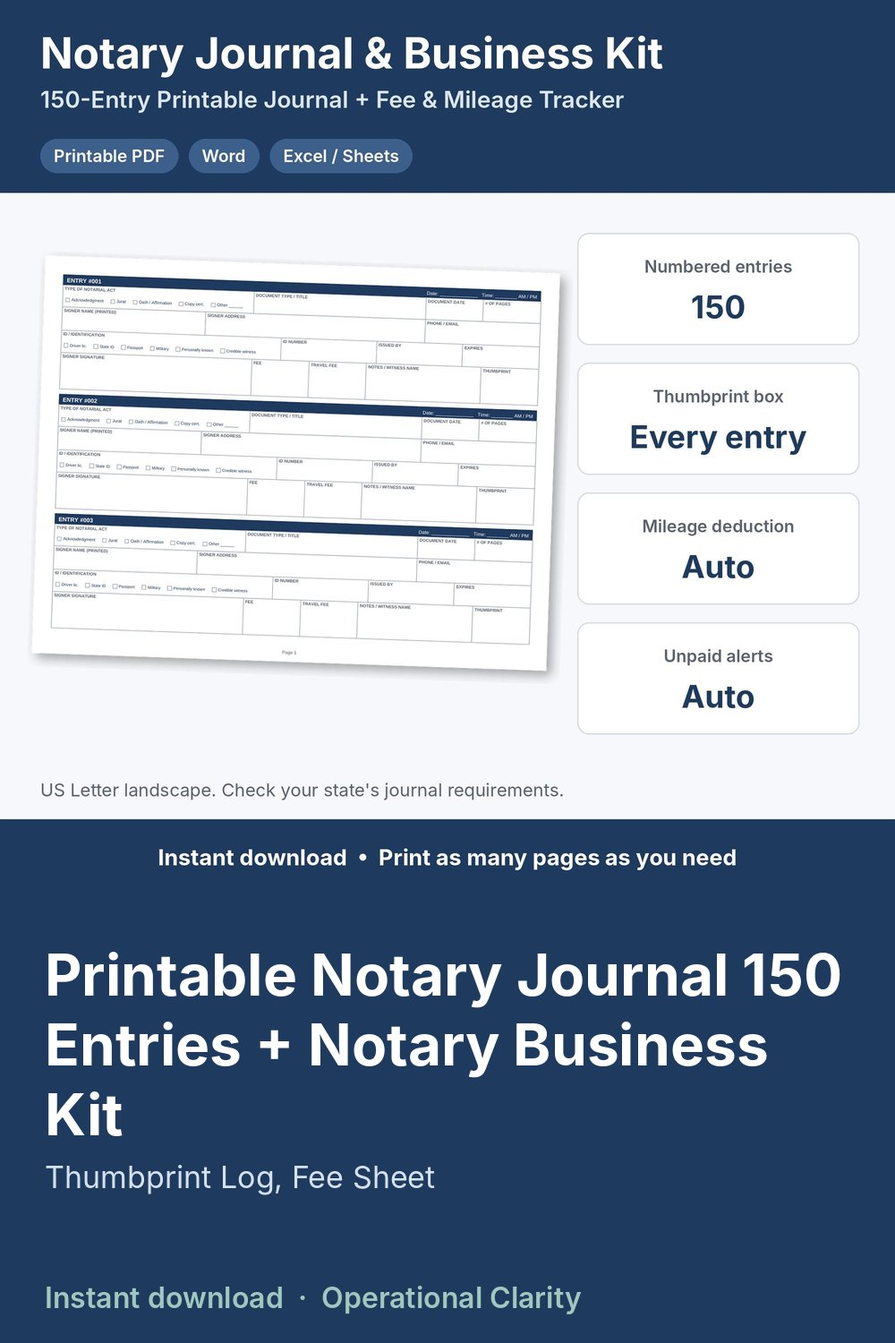
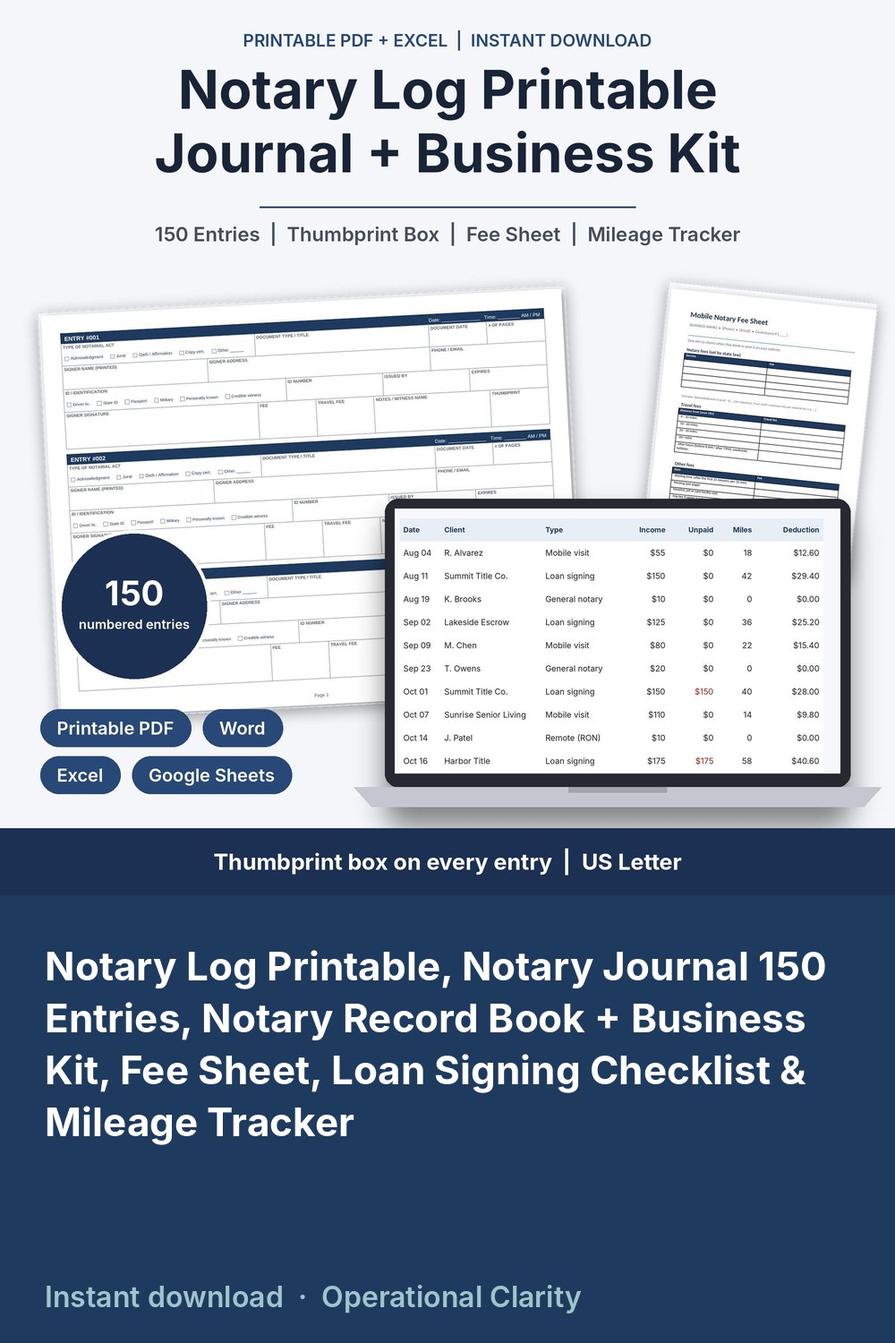
PROMO 11/03: b pins for 2 rewritten listings (salon booth rental, notary journal) + Brow Lamination (main, b); main pins re-rendered for new titles/first photos; b headline also cuts at ' plus '; refresh feed

diff --git a/index.html b/index.html
@@ -7,6 +7,6 @@
 <div class="card"><h2><a href="recipe-cost-calculator.html">Recipe Cost Calculator</a></h2><p>Cost per batch, cost per serving and a suggested price for baked goods.</p></div>
 <div class="card"><h2><a href="paycheck-budget-calculator.html">Paycheck Budget Calculator</a></h2><p>Split bills across paychecks and see what is left from each one.</p></div>
 <div class="card"><h2><a href="landed-cost-calculator.html">Landed Cost Calculator</a></h2><p>True cost per unit after freight, duty and fees.</p></div>
-<h2 id="templates">Spreadsheet & Document Templates</h2><ul><li><a href="p/4595349035.html">2027 Planner Digital &amp; Printable</a></li><li><a href="p/4594598019.html">Airbnb Welcome Book Template Editable in Word Google Docs</a></li><li><a href="p/4602024296.html">Babysitting Forms Kit</a></li><li><a href="p/4553654453.html">Bakery Business Bundle</a></li><li><a href="p/4596837173.html">Bookkeeping Spreadsheet Small Business, Profit and Loss, Income Expense Tracker, Invoice Tracker, Bank Reconciliation, Accounting Template</a></li><li><a href="p/4554866019.html">Business Budget Spreadsheet</a></li><li><a href="p/4600601073.html">Candle Making Log Spreadsheet + Fragrance Load Calculator</a></li><li><a href="p/4601355308.html">Catering Contract Template, Catering Business Contract, Catering Agreement &amp; Order Form, BEO, Menu Quote Calculator, Invoice, Word PDF Excel</a></li><li><a href="p/4607543295.html">Cleaning Business Forms Kit</a></li><li><a href="p/4598967865.html">Coffee Shop Business Plan Template + Startup &amp; Profit Planner Spreadsheet</a></li><li><a href="p/4602477706.html">Consignment Tracker Spreadsheet + Consignment Agreement</a></li><li><a href="p/4600607420.html">Consulting Contract Template + Statement of Work &amp; Proposal</a></li><li><a href="p/4554878636.html">Contract Tracker Spreadsheet</a></li><li><a href="p/4597002015.html">Cookie Pricing Calculator</a></li><li><a href="p/4601198780.html">Dance Studio Forms Kit</a></li><li><a href="p/4601100164.html">Daycare Menu Planner Spreadsheet + Weekly Menu Template</a></li><li><a href="p/4598811066.html">Embroidery Pricing Calculator Spreadsheet</a></li><li><a href="p/4594516468.html">Employee Schedule Template Excel Google Sheets</a></li><li><a href="p/4607276707.html">Esthetician Forms Kit</a></li><li><a href="p/4599677766.html">Event Planning Contract Template, Editable Event Planner Contract, Wedding Planner Agreement, Client Questionnaire, Budget &amp; Vendor Tracker</a></li><li><a href="p/4599435344.html">Florist Order Form Template + Wedding Consultation Form &amp; Flower Pricing Calculator</a></li><li><a href="p/4602913827.html">Food Cost Bundle</a></li><li><a href="p/4597499808.html">Food Truck Business Plan Template + Startup &amp; Profit Planner Spreadsheet</a></li><li><a href="p/4602392090.html">Freelance Writer Contract Template Kit</a></li><li><a href="p/4601783746.html">Graphic Design Contract Template Kit</a></li><li><a href="p/4597022350.html">Home Daycare Starter Kit</a></li><li><a href="p/4601273740.html">Horse Boarding Contract Kit</a></li><li><a href="p/4552565761.html">Ingredient Cost Comparison Sheet</a></li><li><a href="p/4552578072.html">Inventory Count Sheet</a></li><li><a href="p/4554865995.html">Inventory Loss Tracker</a></li><li><a href="p/4553664350.html">Inventory Management Bundle</a></li><li><a href="p/4443844823.html">Inventory Tracker Spreadsheet with Reorder Alerts</a></li><li><a href="p/4602913735.html">Inventory and Ordering Bundle</a></li><li><a href="p/4554878596.html">Landed Cost Calculator Spreadsheet</a></li><li><a href="p/4602544610.html">Landscaping Contract Template Kit</a></li><li><a href="p/4606330823.html">Lash Tech Forms Kit</a></li><li><a href="p/4608245532.html">Makeup Artist Contract Kit</a></li><li><a href="p/4598084241.html">Massage Intake Form, Massage Consent Form, Massage SOAP Notes, Health History + Client Tracker Spreadsheet</a></li><li><a href="p/4601646939.html">Mobile Bar Service Contract Template, Mobile Bartending Contract &amp; Invoice, Bartender Agreement, Drink Calculator, Event Tracker, Word Excel</a></li><li><a href="p/4554866001.html">Multi Location Inventory Tracker</a></li><li><a href="p/4602844224.html">Nail Tech Forms Kit</a></li><li><a href="p/4601947594.html">Nanny Contract Template Kit</a></li><li><a href="p/4594847811.html">Paycheck Budget Planner Spreadsheet</a></li><li><a href="p/4599761870.html">Personal Trainer Forms + Client Tracker</a></li><li><a href="p/4598178519.html">Pet Sitting Contract Template, Pet Sitting Service Agreement, Dog Walking Business Forms, Pet Care Sheet, Visit Report &amp; Invoice Tracker</a></li><li><a href="p/4597992636.html">Photography Client Questionnaire Templates + Pricing Calculator &amp; Booking Tracker</a></li><li><a href="p/4599831777.html">Piano Lesson Tracker + Practice Assignment Sheet &amp; Studio Policy</a></li><li><a href="p/4594208500.html">Print on Demand Profit Tracker Spreadsheet</a></li><li><a href="p/4598251079.html">Printable Notary Journal 150 Entries + Notary Business Kit</a></li><li><a href="p/4554878680.html">Product Cost Calculator</a></li><li><a href="p/4603480063.html">Purchase Order + Inventory Dashboard</a></li><li><a href="p/4552565751.html">Purchase Order Approval Tracker</a></li><li><a href="p/4430807339.html">Purchase Order Tracker Spreadsheet &amp; Receiving Log</a></li><li><a href="p/4552578064.html">Purchasing SOP Templates</a></li><li><a href="p/4553664356.html">Purchasing Templates Bundle</a></li><li><a href="p/4558377143.html">QuickBooks Dashboard Template</a></li><li><a href="p/4554878614.html">Quote Comparison Spreadsheet</a></li><li><a href="p/4562652240.html">Recipe Cost and Pricing Calculator, Bakery Pricing Spreadsheet, Ingredient Cost &amp; Profit Margin Sheet for Home Bakery and Food Business</a></li><li><a href="p/4552578048.html">Reorder Point Calculator</a></li><li><a href="p/4600974020.html">Restaurant Inventory Sheet + Food Cost Calculator</a></li><li><a href="p/4604903580.html">Restaurant Purchasing Bundle</a></li><li><a href="p/4604185746.html">Retail Shop Bundle</a></li><li><a href="p/4554878660.html">Returns Tracker Spreadsheet</a></li><li><a href="p/4554878628.html">Sales Forecast Spreadsheet</a></li><li><a href="p/4597001937.html">Salon Booth Rental Agreement Template</a></li><li><a href="p/4561265217.html">Simple Inventory Tracker Spreadsheet</a></li><li><a href="p/4605653122.html">Small Business Bookkeeping Dashboard</a></li><li><a href="p/4553654601.html">Small Business Operations Bundle</a></li><li><a href="p/4598888813.html">Soap Making Log Spreadsheet + Cost per Bar Calculator</a></li><li><a href="p/4598679324.html">Social Media Manager Contract Template, Social Media Agreement, Client Onboarding Questionnaire, Pricing Calculator &amp; Client Tracker</a></li><li><a href="p/4552578060.html">Supplier Price Tracker</a></li><li><a href="p/4552578052.html">Supplier Tracker Spreadsheet</a></li><li><a href="p/4602618784.html">Tattoo Consent Form Kit</a></li><li><a href="p/4596131544.html">Tax Deduction Tracker Spreadsheet</a></li><li><a href="p/4601852361.html">Tutoring Contract Template Kit</a></li><li><a href="p/4552565827.html">Vendor Onboarding Checklist</a></li><li><a href="p/4599059861.html">Virtual Assistant Contract Template, VA Services Agreement, Client Onboarding Questionnaire, Retainer Time &amp; Invoice Tracker, Word Excel</a></li><li><a href="p/4554865969.html">Warehouse Spreadsheet</a></li><li><a href="p/4602285754.html">Web Design Contract Template Kit</a></li><li><a href="p/4598332795.html">Wholesale Order Form Template, Editable Wholesale Price List &amp; Order Tracker Spreadsheet, Wholesale Terms, Buyer Application, Excel Word</a></li><li><a href="p/4561283977.html">Wholesale Price List Template Excel Google Sheets</a></li></ul>
+<h2 id="templates">Spreadsheet & Document Templates</h2><ul><li><a href="p/4595349035.html">2027 Planner Digital &amp; Printable</a></li><li><a href="p/4594598019.html">Airbnb Welcome Book Template Editable in Word Google Docs</a></li><li><a href="p/4602024296.html">Babysitting Forms Kit</a></li><li><a href="p/4553654453.html">Bakery Business Bundle</a></li><li><a href="p/4596837173.html">Bookkeeping Spreadsheet Small Business, Profit and Loss, Income Expense Tracker, Invoice Tracker, Bank Reconciliation, Accounting Template</a></li><li><a href="p/4608973473.html">Brow Lamination Forms Kit</a></li><li><a href="p/4554866019.html">Business Budget Spreadsheet</a></li><li><a href="p/4600601073.html">Candle Making Log Spreadsheet + Fragrance Load Calculator</a></li><li><a href="p/4601355308.html">Catering Contract Template, Catering Business Contract, Catering Agreement &amp; Order Form, BEO, Menu Quote Calculator, Invoice, Word PDF Excel</a></li><li><a href="p/4607543295.html">Cleaning Business Forms Kit</a></li><li><a href="p/4598967865.html">Coffee Shop Business Plan Template + Startup &amp; Profit Planner Spreadsheet</a></li><li><a href="p/4602477706.html">Consignment Tracker Spreadsheet + Consignment Agreement</a></li><li><a href="p/4600607420.html">Consulting Contract Template + Statement of Work &amp; Proposal</a></li><li><a href="p/4554878636.html">Contract Tracker Spreadsheet</a></li><li><a href="p/4597002015.html">Cookie Pricing Calculator</a></li><li><a href="p/4601198780.html">Dance Studio Forms Kit</a></li><li><a href="p/4601100164.html">Daycare Menu Planner Spreadsheet + Weekly Menu Template</a></li><li><a href="p/4598811066.html">Embroidery Pricing Calculator Spreadsheet</a></li><li><a href="p/4594516468.html">Employee Schedule Template Excel Google Sheets</a></li><li><a href="p/4607276707.html">Esthetician Forms Kit</a></li><li><a href="p/4599677766.html">Event Planning Contract Template, Editable Event Planner Contract, Wedding Planner Agreement, Client Questionnaire, Budget &amp; Vendor Tracker</a></li><li><a href="p/4599435344.html">Florist Order Form Template + Wedding Consultation Form &amp; Flower Pricing Calculator</a></li><li><a href="p/4602913827.html">Food Cost Bundle</a></li><li><a href="p/4597499808.html">Food Truck Business Plan Template + Startup &amp; Profit Planner Spreadsheet</a></li><li><a href="p/4602392090.html">Freelance Writer Contract Template Kit</a></li><li><a href="p/4601783746.html">Graphic Design Contract Template Kit</a></li><li><a href="p/4597022350.html">Home Daycare Starter Kit</a></li><li><a href="p/4601273740.html">Horse Boarding Contract Kit</a></li><li><a href="p/4552565761.html">Ingredient Cost Comparison Sheet</a></li><li><a href="p/4552578072.html">Inventory Count Sheet</a></li><li><a href="p/4554865995.html">Inventory Loss Tracker</a></li><li><a href="p/4553664350.html">Inventory Management Bundle</a></li><li><a href="p/4443844823.html">Inventory Tracker Spreadsheet with Reorder Alerts</a></li><li><a href="p/4602913735.html">Inventory and Ordering Bundle</a></li><li><a href="p/4554878596.html">Landed Cost Calculator Spreadsheet</a></li><li><a href="p/4602544610.html">Landscaping Contract Template Kit</a></li><li><a href="p/4606330823.html">Lash Tech Forms Kit</a></li><li><a href="p/4608245532.html">Makeup Artist Contract Kit</a></li><li><a href="p/4598084241.html">Massage Intake Form, Massage Consent Form, Massage SOAP Notes, Health History + Client Tracker Spreadsheet</a></li><li><a href="p/4601646939.html">Mobile Bar Service Contract Template, Mobile Bartending Contract &amp; Invoice, Bartender Agreement, Drink Calculator, Event Tracker, Word Excel</a></li><li><a href="p/4554866001.html">Multi Location Inventory Tracker</a></li><li><a href="p/4602844224.html">Nail Tech Forms Kit</a></li><li><a href="p/4601947594.html">Nanny Contract Template Kit</a></li><li><a href="p/4598251079.html">Notary Log Printable, Notary Journal 150 Entries, Notary Record Book + Business Kit, Fee Sheet, Loan Signing Checklist &amp; Mileage Tracker</a></li><li><a href="p/4594847811.html">Paycheck Budget Planner Spreadsheet</a></li><li><a href="p/4599761870.html">Personal Trainer Forms + Client Tracker</a></li><li><a href="p/4598178519.html">Pet Sitting Contract Template, Pet Sitting Service Agreement, Dog Walking Business Forms, Pet Care Sheet, Visit Report &amp; Invoice Tracker</a></li><li><a href="p/4597992636.html">Photography Client Questionnaire Templates + Pricing Calculator &amp; Booking Tracker</a></li><li><a href="p/4599831777.html">Piano Lesson Tracker + Practice Assignment Sheet &amp; Studio Policy</a></li><li><a href="p/4594208500.html">Print on Demand Profit Tracker Spreadsheet</a></li><li><a href="p/4554878680.html">Product Cost Calculator</a></li><li><a href="p/4603480063.html">Purchase Order + Inventory Dashboard</a></li><li><a href="p/4552565751.html">Purchase Order Approval Tracker</a></li><li><a href="p/4430807339.html">Purchase Order Tracker Spreadsheet &amp; Receiving Log</a></li><li><a href="p/4552578064.html">Purchasing SOP Templates</a></li><li><a href="p/4553664356.html">Purchasing Templates Bundle</a></li><li><a href="p/4558377143.html">QuickBooks Dashboard Template</a></li><li><a href="p/4554878614.html">Quote Comparison Spreadsheet</a></li><li><a href="p/4562652240.html">Recipe Cost and Pricing Calculator, Bakery Pricing Spreadsheet, Ingredient Cost &amp; Profit Margin Sheet for Home Bakery and Food Business</a></li><li><a href="p/4552578048.html">Reorder Point Calculator</a></li><li><a href="p/4600974020.html">Restaurant Inventory Sheet + Food Cost Calculator</a></li><li><a href="p/4604903580.html">Restaurant Purchasing Bundle</a></li><li><a href="p/4604185746.html">Retail Shop Bundle</a></li><li><a href="p/4554878660.html">Returns Tracker Spreadsheet</a></li><li><a href="p/4554878628.html">Sales Forecast Spreadsheet</a></li><li><a href="p/4597001937.html">Salon Booth Rental Contract, Booth Rental Agreement, Salon Station &amp; Chair Rental, Renter Application, Policies, Rent Tracker, Word Excel</a></li><li><a href="p/4561265217.html">Simple Inventory Tracker Spreadsheet</a></li><li><a href="p/4605653122.html">Small Business Bookkeeping Dashboard</a></li><li><a href="p/4553654601.html">Small Business Operations Bundle</a></li><li><a href="p/4598888813.html">Soap Making Log Spreadsheet + Cost per Bar Calculator</a></li><li><a href="p/4598679324.html">Social Media Manager Contract Template, Social Media Agreement, Client Onboarding Questionnaire, Pricing Calculator &amp; Client Tracker</a></li><li><a href="p/4552578060.html">Supplier Price Tracker</a></li><li><a href="p/4552578052.html">Supplier Tracker Spreadsheet</a></li><li><a href="p/4602618784.html">Tattoo Consent Form Kit</a></li><li><a href="p/4596131544.html">Tax Deduction Tracker Spreadsheet</a></li><li><a href="p/4601852361.html">Tutoring Contract Template Kit</a></li><li><a href="p/4552565827.html">Vendor Onboarding Checklist</a></li><li><a href="p/4599059861.html">Virtual Assistant Contract Template, VA Services Agreement, Client Onboarding Questionnaire, Retainer Time &amp; Invoice Tracker, Word Excel</a></li><li><a href="p/4554865969.html">Warehouse Spreadsheet</a></li><li><a href="p/4602285754.html">Web Design Contract Template Kit</a></li><li><a href="p/4598332795.html">Wholesale Order Form Template, Editable Wholesale Price List &amp; Order Tracker Spreadsheet, Wholesale Terms, Buyer Application, Excel Word</a></li><li><a href="p/4561283977.html">Wholesale Price List Template Excel Google Sheets</a></li></ul>
 <p>Want the full spreadsheet versions? <a class="cta" href="https://www.etsy.com/shop/Operationalclarity">Browse all templates on Etsy</a></p>
 </main><footer>Free tools by <a href="https://www.etsy.com/shop/Operationalclarity">Operational Clarity</a>. Estimates only, not financial or tax advice. Not affiliated with Etsy.</footer></body></html>

diff --git a/p/4608973473.html b/p/4608973473.html
@@ -1,0 +1,8 @@
+<!doctype html><html lang="en"><head><meta charset="utf-8"><meta name="viewport" content="width=device-width,initial-scale=1">
+<title>Brow Lamination Forms Kit | Operational Clarity</title><meta name="description" content="Get the consent form and patch test record on file, price every lamination and lift so it pays you, and know when each client is due back: a complete brow ">
+<link rel="canonical" href="https://hgmanagementusa-bot.github.io/operationalclarity-tools/p/4608973473.html"><link rel="stylesheet" href="../style.css">
+<meta property="og:title" content="Brow Lamination Forms Kit"><meta property="og:image" content="https://hgmanagementusa-bot.github.io/operationalclarity-tools/pins/4608973473.jpg"><meta property="og:type" content="product"></head>
+<body><header><a href="../index.html">Operational Clarity · Small Business Templates</a></header><main>
+<h1>Brow Lamination Forms Kit</h1><img src="../pins/4608973473.jpg" alt="Brow Lamination Forms Kit" style="max-width:100%;height:auto;border-radius:8px">
+<p><a class="cta" href="https://www.etsy.com/listing/4608973473/brow-lamination-forms-kit-editable-lash">Get it on Etsy</a></p><p>Get the consent form and patch test record on file, price every lamination and lift so it pays you, and know when each client is due back: a complete brow lamination and lash lift forms kit with a working pricing calculator and client tracker, not just a few printable pages.</p><p>WHAT&#x27;S INSIDE<br>- Brow Lamination &amp; Lash Lift Intake &amp; Consent Form (Word + PDF, 2 pages): client details, service wanted (lamination, tint, lash lift, wax, combos), simple yes / no client self-disclosure questions, patch test record or signed decline, 7 initialed acknowledgments (results vary, temporary redness or sensitivity, aftercare, patch test, studio policies agreed), consent and release, before / after photo consent, client and artist signatures, yearly review / update log.<br>- Brow &amp; Lash Map and Service Record (Word + PDF, 2 pages): brow map (start, arch and tail for each brow, shape notes, sparse areas), hair type, look, tint shade, lash lift rod / shield size, visit history (products used, lift / set time and tint time you used, result notes, price, next visit), retail, deposits and balances, before / after photo log.<br>- Brow &amp; Lash Studio Policies (Word + PDF): 9 ready-to-edit policies for deposits, forms and patch tests, arriving for your service, late arrivals, cancellations and no-shows, time between services, results and touch-ups, packages / gift cards / retail, payments and right to refuse, plus a blank page for your own aftercare instructions.<br>- Brow &amp; Lash Service Menu &amp; Price List (Word + PDF): editable menu with times and prices for brows, lashes, combos and add-ons.<br>- Brow Lamination Pricing Calculator &amp; Client Tracker (Google Sheets / Excel, 6 tabs):<br>  * Service Menu: minutes, product cost and your price for each lamination, lift, tint, wax and add-on; suggested price from your target hourly pay, overhead and card fees; what you keep and your real pay per hour; BELOW SUGGESTED flag<br>  * Settings: target pay, monthly overhead, booked hours, card fees, deposit % and minimum, rounding, and after how many days your studio asks for a new patch test (your own policy)<br>  * Clients: contact details, brow and lash notes, consent form date, patch test date or &quot;not needed / waived&quot; mark, visits, total spent, retail bought, next visit due and rebook alerts (REBOOK NOW / DUE SOON / BOOKED); no health information stored<br>  * Appointments: service and add-on looked up from your menu, discounts, deposits, refunds, status, retail sold, days since last visit, balances and alerts (CONSENT MISSING / PATCH TEST MISSING / BALANCE DUE / DEPOSIT DUE / SEND FORMS / PATCH TEST DUE / UPCOMING / UPDATE STATUS)<br>  * Dashboard: service revenue, retail sales, tips, product costs, card fees, what you keep, pay per hour worked, average ticket, no-show rate, deposits held, month-by-month and service-by-service tables, chart and a list of appointments that need attention<br>- START HERE guide (PDF)</p><p>HOW IT WORKS<br>1. Enter your target pay, overhead, card fees and patch test policy on Settings.<br>2. Add your services on the Service Menu tab, fix anything flagged BELOW SUGGESTED, and copy your prices into the printable menu.<br>3. Send new clients the policies and the Intake &amp; Consent Form before their first visit; note the consent date and patch test date on Clients.<br>4. Log each booking and deposit; price, time and product cost fill in automatically.<br>5. After each visit, record payment, tip and retail sales, and watch the alerts for missing consent forms or patch tests, balances, deposits and clients due back.<br>Example data (9 services, 14 sample clients, 42 appointments) shows how it all connects; delete it and type your own. Yellow cells = type here, green cells = calculated.</p><p>FORMATS<br>- Word .docx (edit in Microsoft Word, Google Docs, Pages or LibreOffice) + PDF, US Letter<br>- Excel .xlsx made for Google Sheets (also works in Excel and LibreOffice; no macros)</p><p>This is an instant digital download, no physical item will be shipped.</p><p>Editable template, not legal advice. Have it reviewed by a local attorney and check your state board of cosmetology and local requirements (consent wording, patch tests, client records, which services your license covers) before you use it. The client questions are simple yes / no self-disclosures: information only, not a medical screening tool and not medical advice. No aftercare or medical advice is included; follow your product manufacturer&#x27;s instructions.</p><p><a class="cta" href="https://www.etsy.com/listing/4608973473/brow-lamination-forms-kit-editable-lash">Get it on Etsy</a></p>
+</main><footer>By <a href="https://www.etsy.com/shop/Operationalclarity">Operational Clarity</a>. Not affiliated with Etsy.</footer></body></html>

diff --git a/p/4598251079.html b/p/4598251079.html
@@ -1,8 +1,8 @@
 <!doctype html><html lang="en"><head><meta charset="utf-8"><meta name="viewport" content="width=device-width,initial-scale=1">
-<title>Printable Notary Journal 150 Entries + Notary Business Kit | Operational Clarity</title><meta name="description" content="NOTARY JOURNAL PRINTABLE + NOTARY BUSINESS KIT | 150 Numbered Entries with Thumbprint Box + Fee Sheet, Loan Signing Checklist &amp; Fee / Mileage Tracker | PDF">
+<title>Notary Log Printable, Notary Journal 150 Entries, Notary Record Book + Business Kit, Fee Sheet, Loan Signing Checklist &amp; Mileage Tracker | Operational Clarity</title><meta name="description" content="NOTARY JOURNAL PRINTABLE + NOTARY BUSINESS KIT | 150 Numbered Entries with Thumbprint Box + Fee Sheet, Loan Signing Checklist &amp; Fee / Mileage Tracker | PDF">
 <link rel="canonical" href="https://hgmanagementusa-bot.github.io/operationalclarity-tools/p/4598251079.html"><link rel="stylesheet" href="../style.css">
-<meta property="og:title" content="Printable Notary Journal 150 Entries + Notary Business Kit"><meta property="og:image" content="https://hgmanagementusa-bot.github.io/operationalclarity-tools/pins/4598251079.jpg"><meta property="og:type" content="product"></head>
+<meta property="og:title" content="Notary Log Printable, Notary Journal 150 Entries, Notary Record Book + Business Kit, Fee Sheet, Loan Signing Checklist &amp; Mileage Tracker"><meta property="og:image" content="https://hgmanagementusa-bot.github.io/operationalclarity-tools/pins/4598251079.jpg"><meta property="og:type" content="product"></head>
 <body><header><a href="../index.html">Operational Clarity · Small Business Templates</a></header><main>
-<h1>Printable Notary Journal 150 Entries + Notary Business Kit</h1><img src="../pins/4598251079.jpg" alt="Printable Notary Journal 150 Entries + Notary Business Kit" style="max-width:100%;height:auto;border-radius:8px">
+<h1>Notary Log Printable, Notary Journal 150 Entries, Notary Record Book + Business Kit, Fee Sheet, Loan Signing Checklist &amp; Mileage Tracker</h1><img src="../pins/4598251079.jpg" alt="Notary Log Printable, Notary Journal 150 Entries, Notary Record Book + Business Kit, Fee Sheet, Loan Signing Checklist &amp; Mileage Tracker" style="max-width:100%;height:auto;border-radius:8px">
 <p><a class="cta" href="https://www.etsy.com/listing/4598251079/printable-notary-journal-150-entries">Get it on Etsy</a></p><p>NOTARY JOURNAL PRINTABLE + NOTARY BUSINESS KIT | 150 Numbered Entries with Thumbprint Box + Fee Sheet, Loan Signing Checklist &amp; Fee / Mileage Tracker | PDF, Word, Excel / Google Sheets | Instant Download</p><p>A clean, professional notary journal you can print today, plus the business tools a mobile notary or loan signing agent actually uses.</p><p>PRINTABLE NOTARY JOURNAL (PDF, US Letter landscape)<br>• Cover / journal information page: notary name, commission number and expiration, county, volume, first and last entry, dates<br>• 150 numbered entries (001-150), 3 per page<br>• Every entry: date and time, type of act (acknowledgment, jurat, oath / affirmation, copy certification, other), document type, document date, number of pages, signer name, address, phone / email, ID type (driver license, state ID, passport, military, personally known, credible witness), ID number, issued by, expiration, fee, travel fee, signer signature, notes / witness name and a thumbprint box<br>• Plus a blank, un-numbered page to print as many times as you need</p><p>FEE SHEET &amp; CHECKLISTS (Word + PDF)<br>• Client-facing fee sheet: notary fees, travel fees by distance, after-hours, waiting time, printing, trip fee, payment terms<br>• Appointment booking checklist with a &quot;no legal advice&quot; script for clients<br>• Loan signing checklist: before, at the table, after</p><p>FEE, MILEAGE &amp; DIGITAL JOURNAL TRACKER (Excel / Google Sheets)<br>• Appointments log (1,000 rows): number of notarial acts x your fee, travel fee, signing agent fee, total income, paid / unpaid (unpaid turns red), round-trip miles and mileage deduction at the IRS rate you enter<br>• Digital journal backup tab with dropdowns for act type and ID type<br>• Dashboard: total income, still owed, notarial acts, miles, mileage deduction, average per appointment, loan signing income, and a month-by-month table and chart</p><p>WHAT YOU GET (one ZIP file)<br>• 1_Notary_Journal_150_Entries.pdf<br>• 1b_Notary_Journal_Blank_Page_print_as_needed.pdf<br>• 2_Fee_Sheet_and_Appointment_Checklists.docx + .pdf<br>• Notary_Fee_Mileage_and_Digital_Journal_Tracker.xlsx<br>• 0_START_HERE guide (Word + PDF)</p><p>IMPORTANT: Journal requirements differ by state. Some states require a permanently bound journal, specific entries or a thumbprint. Check your state&#x27;s notary handbook before use. Not legal or tax advice.</p><p>INSTANT DIGITAL DOWNLOAD. No physical item will be shipped.</p><p><a class="cta" href="https://www.etsy.com/listing/4598251079/printable-notary-journal-150-entries">Get it on Etsy</a></p>
 </main><footer>By <a href="https://www.etsy.com/shop/Operationalclarity">Operational Clarity</a>. Not affiliated with Etsy.</footer></body></html>

diff --git a/p/4597001937.html b/p/4597001937.html
@@ -1,8 +1,8 @@
 <!doctype html><html lang="en"><head><meta charset="utf-8"><meta name="viewport" content="width=device-width,initial-scale=1">
-<title>Salon Booth Rental Agreement Template | Operational Clarity</title><meta name="description" content="SALON BOOTH RENTAL KIT | Booth Rental Agreement + Renter Application + Salon Policies + Booth Rent Tracker | Editable Word, Google Docs, PDF &amp; Excel | Inst">
+<title>Salon Booth Rental Contract, Booth Rental Agreement, Salon Station &amp; Chair Rental, Renter Application, Policies, Rent Tracker, Word Excel | Operational Clarity</title><meta name="description" content="SALON BOOTH RENTAL KIT | Booth Rental Agreement + Renter Application + Salon Policies + Booth Rent Tracker | Editable Word, Google Docs, PDF &amp; Excel | Inst">
 <link rel="canonical" href="https://hgmanagementusa-bot.github.io/operationalclarity-tools/p/4597001937.html"><link rel="stylesheet" href="../style.css">
-<meta property="og:title" content="Salon Booth Rental Agreement Template"><meta property="og:image" content="https://hgmanagementusa-bot.github.io/operationalclarity-tools/pins/4597001937.jpg"><meta property="og:type" content="product"></head>
+<meta property="og:title" content="Salon Booth Rental Contract, Booth Rental Agreement, Salon Station &amp; Chair Rental, Renter Application, Policies, Rent Tracker, Word Excel"><meta property="og:image" content="https://hgmanagementusa-bot.github.io/operationalclarity-tools/pins/4597001937.jpg"><meta property="og:type" content="product"></head>
 <body><header><a href="../index.html">Operational Clarity · Small Business Templates</a></header><main>
-<h1>Salon Booth Rental Agreement Template</h1><img src="../pins/4597001937.jpg" alt="Salon Booth Rental Agreement Template" style="max-width:100%;height:auto;border-radius:8px">
+<h1>Salon Booth Rental Contract, Booth Rental Agreement, Salon Station &amp; Chair Rental, Renter Application, Policies, Rent Tracker, Word Excel</h1><img src="../pins/4597001937.jpg" alt="Salon Booth Rental Contract, Booth Rental Agreement, Salon Station &amp; Chair Rental, Renter Application, Policies, Rent Tracker, Word Excel" style="max-width:100%;height:auto;border-radius:8px">
 <p><a class="cta" href="https://www.etsy.com/listing/4597001937/salon-booth-rental-agreement-template">Get it on Etsy</a></p><p>SALON BOOTH RENTAL KIT | Booth Rental Agreement + Renter Application + Salon Policies + Booth Rent Tracker | Editable Word, Google Docs, PDF &amp; Excel | Instant Download</p><p>Everything a salon owner needs to bring on a booth renter, in one download. Not just a one-page contract: you also get a renter application, an onboarding checklist, a set of salon policies, and a spreadsheet that tracks rent, late fees, deposits and license renewals.</p><p>WHAT&#x27;S INCLUDED<br>1. Salon Booth Rental Agreement (Word + PDF)<br>• 15 sections: booth/station, term, rent, late payment, security deposit, independent contractor terms, hours and access, supplies and retail, licenses and insurance, sanitation, conduct, damage and liability, ending the agreement, client records, general terms<br>• Key-terms summary table and signature block<br>2. Booth Renter Application &amp; Onboarding Checklist (Word + PDF)<br>• Application with license, insurance, experience and references<br>• Checklist for before move-in, move-in day and the first 30 days<br>3. Salon Policies for Booth Renters (Word + PDF)<br>• 11 ready-to-edit policies (hours, rent, cleanliness, shared supplies, music and phones, guests and children, front desk, social media, parking, complaints, safety) + renter acknowledgment<br>4. Booth Rent Tracker (Excel / Google Sheets)<br>• Weekly or monthly rent for up to 30 renters<br>• Rent due to date, payments, late fees and balance owed for each renter, calculated automatically<br>• Deposits held, monthly rent roll, rent collected this month<br>• License and insurance expiry dates flagged 30 days ahead<br>5. Start Here guide</p><p>EDIT IT YOUR WAY<br>Open the Word files in Microsoft Word, Pages or Google Docs and replace everything in [brackets]. No Canva account needed. PDFs are included for printing.</p><p>GOOD TO KNOW<br>• This is a template, not legal advice. Booth rental, independent contractor and deposit laws differ by state. Edit it to fit your salon and have it reviewed by a local attorney before use.<br>• Digital download. No physical item will be shipped.<br>• For use in your own salon. No reselling or sharing of the files.</p><p><a class="cta" href="https://www.etsy.com/listing/4597001937/salon-booth-rental-agreement-template">Get it on Etsy</a></p>
 </main><footer>By <a href="https://www.etsy.com/shop/Operationalclarity">Operational Clarity</a>. Not affiliated with Etsy.</footer></body></html>
